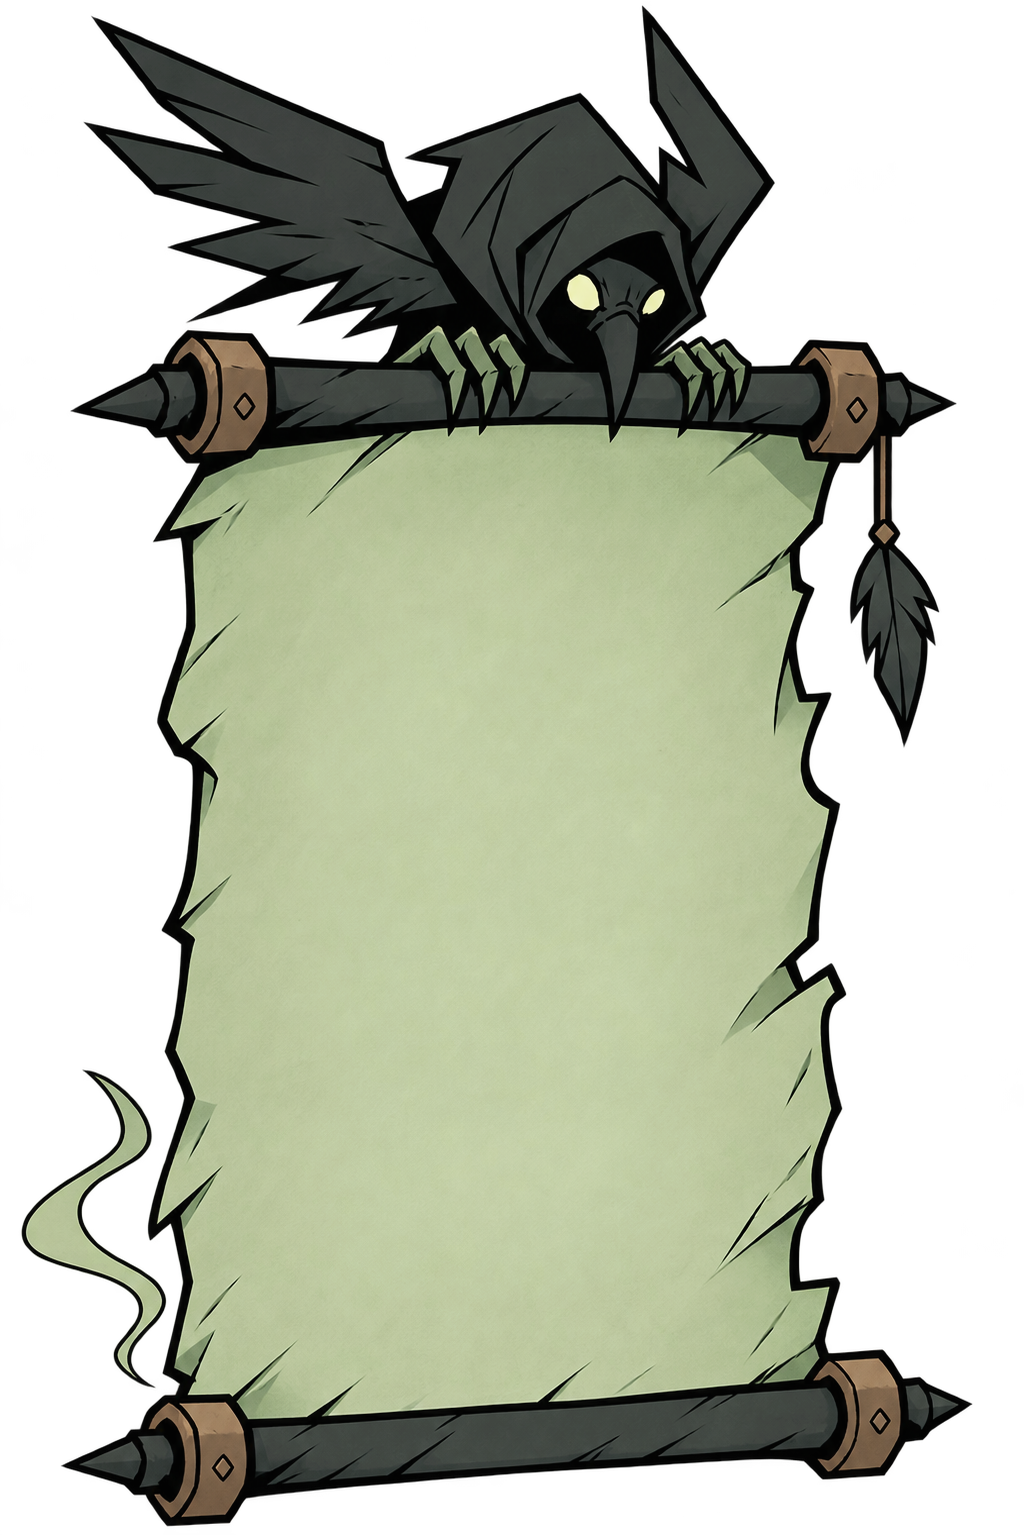
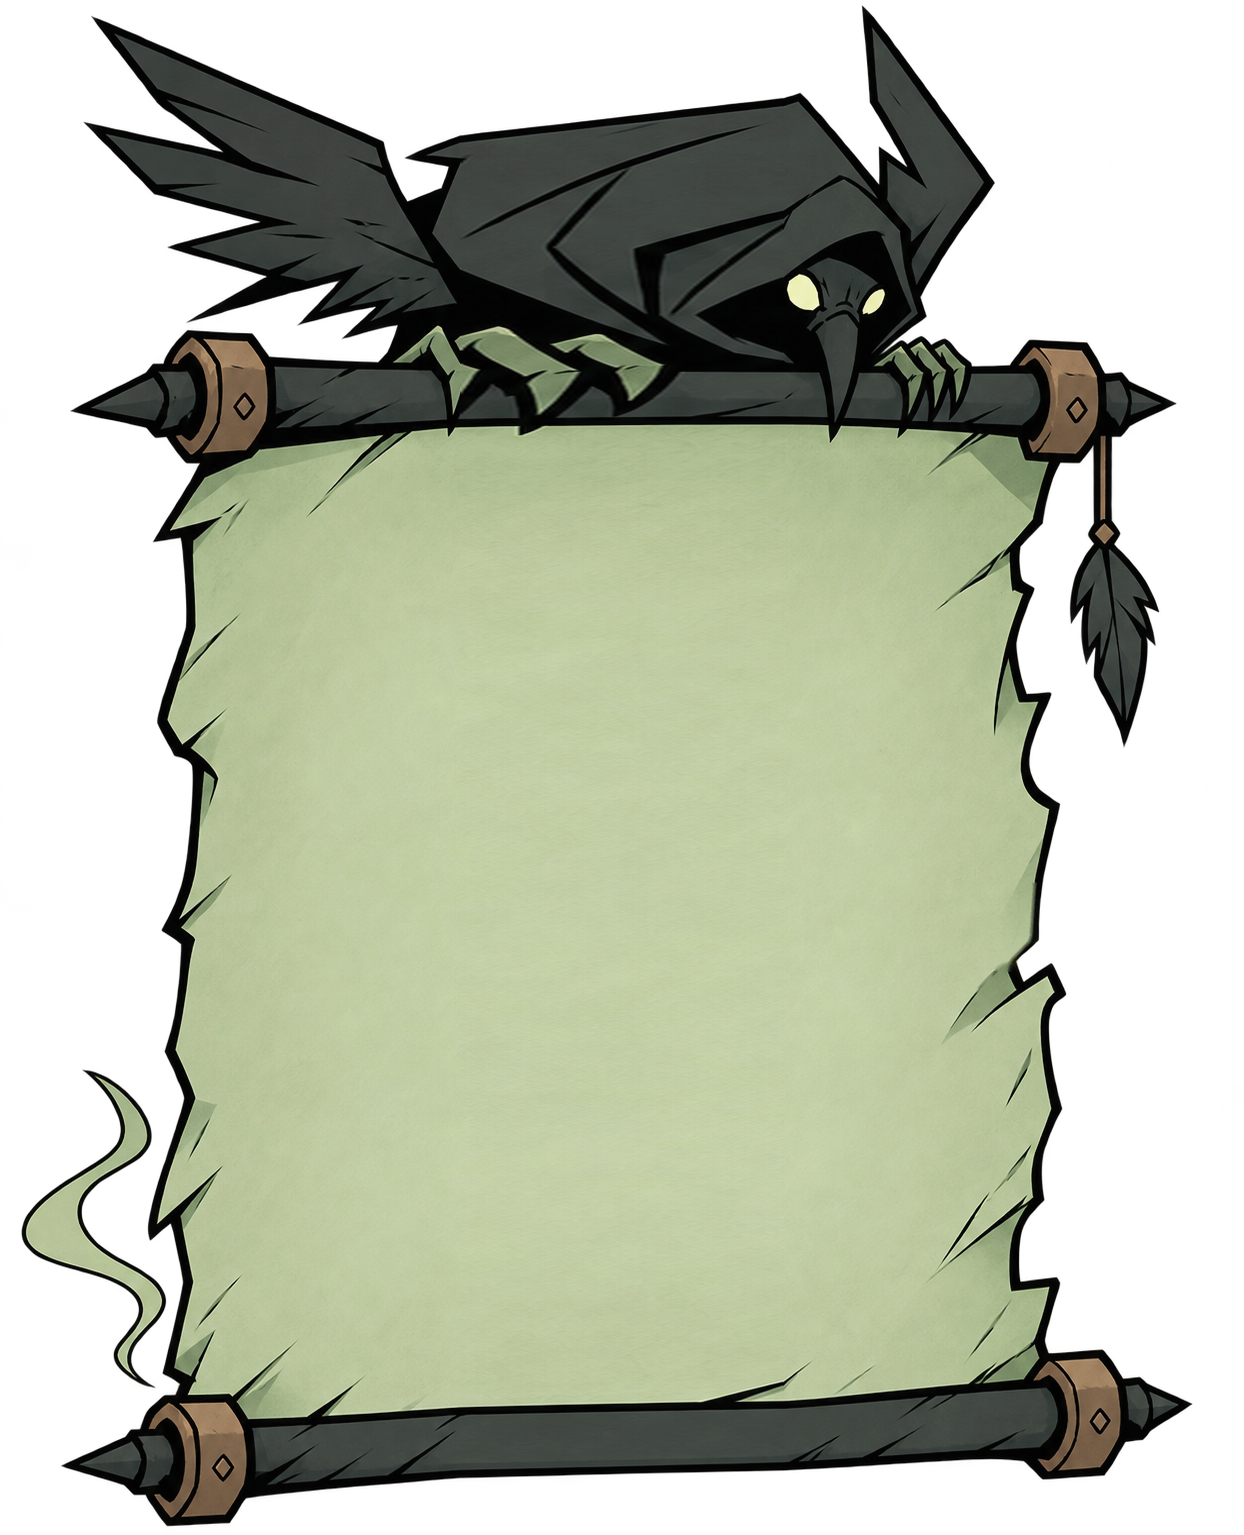
feat(receipt): artificially expand parchment width and prevent side text wrapping/clipping

Changed region(s): [[0.0, 0.0, 0.9688, 1.0]]

diff --git a/frontend/src/pages/ReceiptPage.jsx b/frontend/src/pages/ReceiptPage.jsx
@@ -176,9 +176,9 @@ const styles = `
   .rcpt-scroll-stage {
     position: relative;
     width: 100%;
-    max-width: 580px;
+    max-width: 670px;
     margin-top: 20px;
-    aspect-ratio: 1024 / 1535;
+    aspect-ratio: 1244 / 1535;
     user-select: text !important;
     -webkit-user-select: text !important;
     filter: drop-shadow(0 20px 40px rgba(0, 0, 0, 0.95));
@@ -244,17 +244,20 @@ const styles = `
     letter-spacing: 0.02em;
     clip-path: polygon(0 0, 100% 0, 97% 50%, 100% 100%, 0 100%);
     box-shadow: 1px 2px 0px rgba(0, 0, 0, 0.25);
+    white-space: nowrap;
   }
 
   .rcpt-sc-val {
     position: absolute;
     display: flex;
     align-items: center;
+    justify-content: flex-end;
     font-family: 'JetBrains Mono', monospace;
-    font-size: clamp(9px, 1.45vw, 11.5px);
+    font-size: clamp(9px, 1.4vw, 11.5px);
     font-weight: 700;
     color: #121c16;
-    word-break: break-all;
+    text-align: right;
+    white-space: nowrap;
   }
 
   .rcpt-sc-status-box {
@@ -270,11 +273,12 @@ const styles = `
     border: 1.5px solid #1b4728;
     border-radius: 4px;
     letter-spacing: 0.06em;
+    white-space: nowrap;
   }
 
   .rcpt-sc-copy-btn {
     margin-left: 6px;
-    padding: 1px 6px;
+    padding: 2px 7px;
     border-radius: 4px;
     background: #1b4728;
     color: #d6eac7;
@@ -283,6 +287,8 @@ const styles = `
     font-weight: 800;
     cursor: pointer !important;
     user-select: none !important;
+    white-space: nowrap;
+    flex-shrink: 0;
     transition: transform 0.1s ease;
   }
 
@@ -824,10 +830,10 @@ export default function ReceiptPage() {
                 </div>
 
                 {/* 1. Order Reference */}
-                <div className="rcpt-sc-ribbon" style={{ left: "20.8%", top: "37.5%", width: "20.2%", height: "2.44%" }}>
+                <div className="rcpt-sc-ribbon" style={{ left: "18.5%", top: "37.5%", width: "18%", height: "2.44%" }}>
                   Order Reference
                 </div>
-                <div className="rcpt-sc-val" style={{ left: "42.8%", top: "37.3%", width: "36%" }}>
+                <div className="rcpt-sc-val" style={{ left: "38%", top: "37.3%", width: "42%" }}>
                   <span>{receiptData.orderId}</span>
                   <button
                     className="rcpt-sc-copy-btn"
@@ -844,36 +850,36 @@ export default function ReceiptPage() {
                 </div>
 
                 {/* 2. Sanctum Status */}
-                <div className="rcpt-sc-ribbon" style={{ left: "20.8%", top: "41.8%", width: "20.2%", height: "2.44%" }}>
+                <div className="rcpt-sc-ribbon" style={{ left: "18.5%", top: "41.8%", width: "18%", height: "2.44%" }}>
                   Sanctum Status
                 </div>
-                <div className="rcpt-sc-status-box" style={{ left: "45.7%", top: "41.0%", width: "27.8%", height: "3.12%" }}>
+                <div className="rcpt-sc-status-box" style={{ left: "47%", top: "41.0%", width: "26%", height: "3.12%" }}>
                   {receiptData.status}
                 </div>
 
                 {/* 3. Pickup Counter */}
-                <div className="rcpt-sc-ribbon" style={{ left: "20.8%", top: "46.1%", width: "20.2%", height: "2.44%" }}>
+                <div className="rcpt-sc-ribbon" style={{ left: "18.5%", top: "46.1%", width: "18%", height: "2.44%" }}>
                   Pickup Counter
                 </div>
-                <div className="rcpt-sc-val" style={{ left: "42.8%", top: "45.7%", width: "36%", lineHeight: "1.25" }}>
+                <div className="rcpt-sc-val" style={{ left: "38%", top: "45.7%", width: "42%", lineHeight: "1.25" }}>
                   {receiptData.pickupCounter}
                 </div>
 
                 {/* 4. Recorded At */}
-                <div className="rcpt-sc-ribbon" style={{ left: "20.8%", top: "50.4%", width: "20.2%", height: "2.44%" }}>
+                <div className="rcpt-sc-ribbon" style={{ left: "18.5%", top: "50.4%", width: "18%", height: "2.44%" }}>
                   Recorded At
                 </div>
-                <div className="rcpt-sc-val" style={{ left: "42.8%", top: "50.4%", width: "36%" }}>
+                <div className="rcpt-sc-val" style={{ left: "38%", top: "50.4%", width: "42%" }}>
                   {receiptData.date}
                 </div>
 
                 {/* 5. Order Manifest Header */}
-                <div className="rcpt-sc-ribbon" style={{ left: "23.7%", top: "55.5%", width: "36.6%", height: "2.44%" }}>
+                <div className="rcpt-sc-ribbon" style={{ left: "21%", top: "55.5%", width: "38%", height: "2.44%" }}>
                   Order Manifest ({receiptData.items.length} Items)
                 </div>
 
                 {/* 6. Manifest Items Box */}
-                <div className="rcpt-sc-manifest-box" style={{ left: "20.8%", top: "58.4%", width: "57.8%", height: "11.2%" }}>
+                <div className="rcpt-sc-manifest-box" style={{ left: "18.5%", top: "58.4%", width: "61.5%", height: "11.2%" }}>
                   {receiptData.items.map((item, idx) => (
                     <div key={idx} className="rcpt-sc-item-row">
                       <div>
@@ -888,10 +894,10 @@ export default function ReceiptPage() {
                 </div>
 
                 {/* 7. Total Offering Paid Ribbon & Starburst */}
-                <div className="rcpt-sc-ribbon" style={{ left: "20.8%", top: "72.8%", width: "33%", height: "3.52%", fontSize: "clamp(10px, 1.7vw, 13px)" }}>
+                <div className="rcpt-sc-ribbon" style={{ left: "18.5%", top: "72.8%", width: "31%", height: "3.52%", fontSize: "clamp(10px, 1.7vw, 13px)" }}>
                   Total Offering Paid
                 </div>
-                <div className="rcpt-sc-total-val" style={{ left: "55.9%", top: "72.2%", width: "22.7%", height: "4.7%" }}>
+                <div className="rcpt-sc-total-val" style={{ left: "53.5%", top: "72.2%", width: "26.5%", height: "4.7%" }}>
                   ₹{receiptData.total}
                 </div>
 
@@ -903,7 +909,7 @@ export default function ReceiptPage() {
                 {/* 9. Action Buttons */}
                 <button
                   className="rcpt-sc-btn"
-                  style={{ left: "21.2%", top: "82.2%", width: "26.4%", height: "5.1%" }}
+                  style={{ left: "18.5%", top: "82.2%", width: "29.5%", height: "5.1%" }}
                   onClick={(e) => {
                     e.stopPropagation();
                     window.print();
@@ -913,7 +919,7 @@ export default function ReceiptPage() {
                 </button>
                 <button
                   className="rcpt-sc-btn"
-                  style={{ left: "50.5%", top: "82.2%", width: "27.1%", height: "5.1%", fontSize: "clamp(9.5px, 1.55vw, 12px)" }}
+                  style={{ left: "50.5%", top: "82.2%", width: "29.5%", height: "5.1%", fontSize: "clamp(9.5px, 1.55vw, 12px)" }}
                   onClick={(e) => {
                     e.stopPropagation();
                     navigate("/student");
